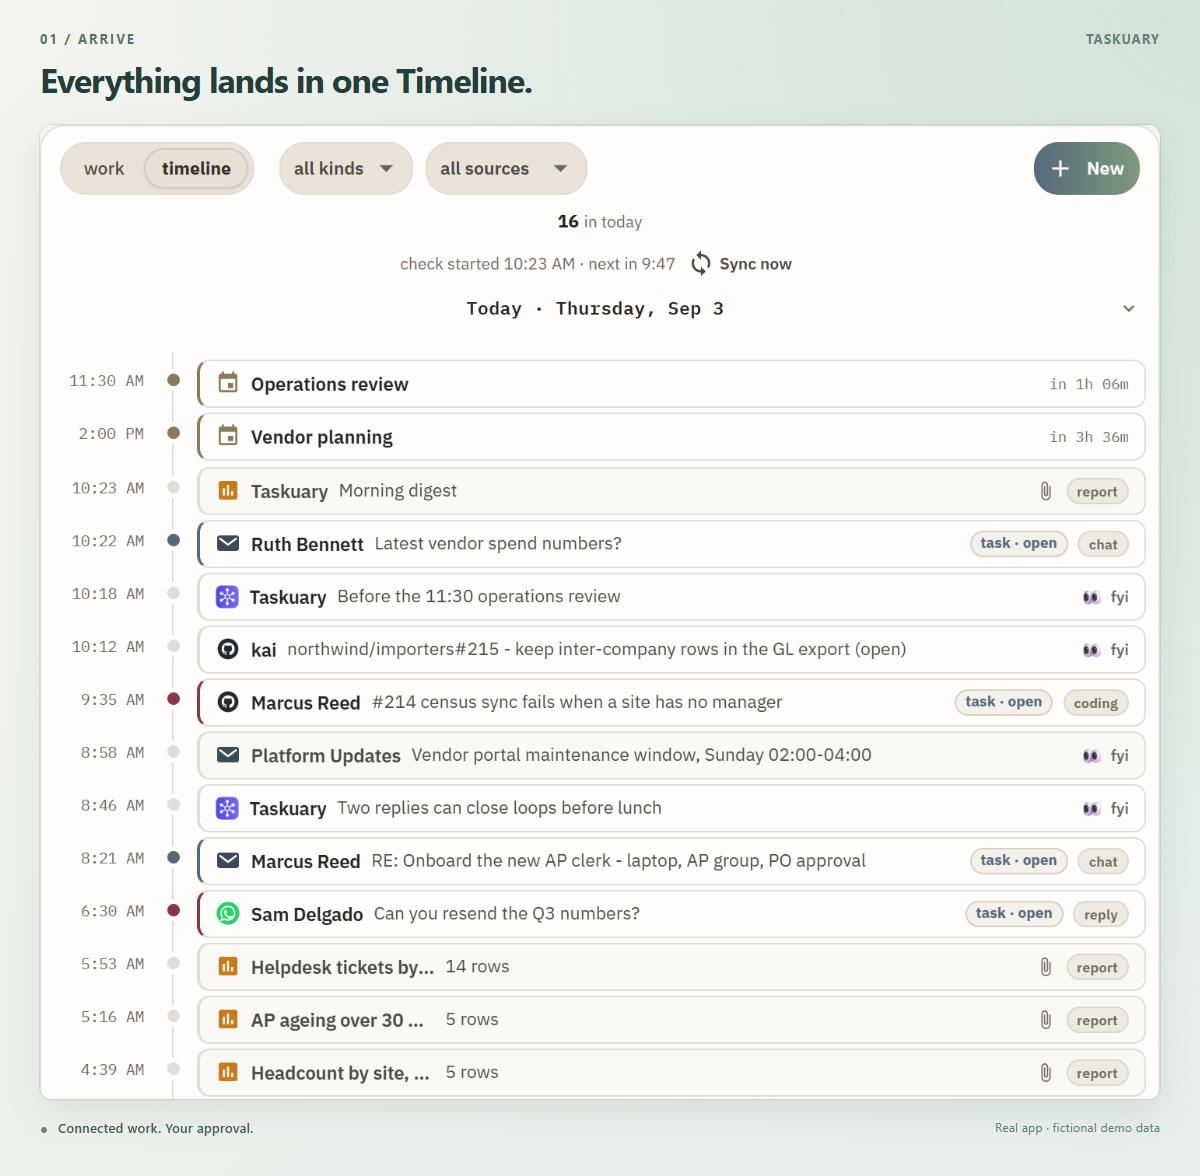
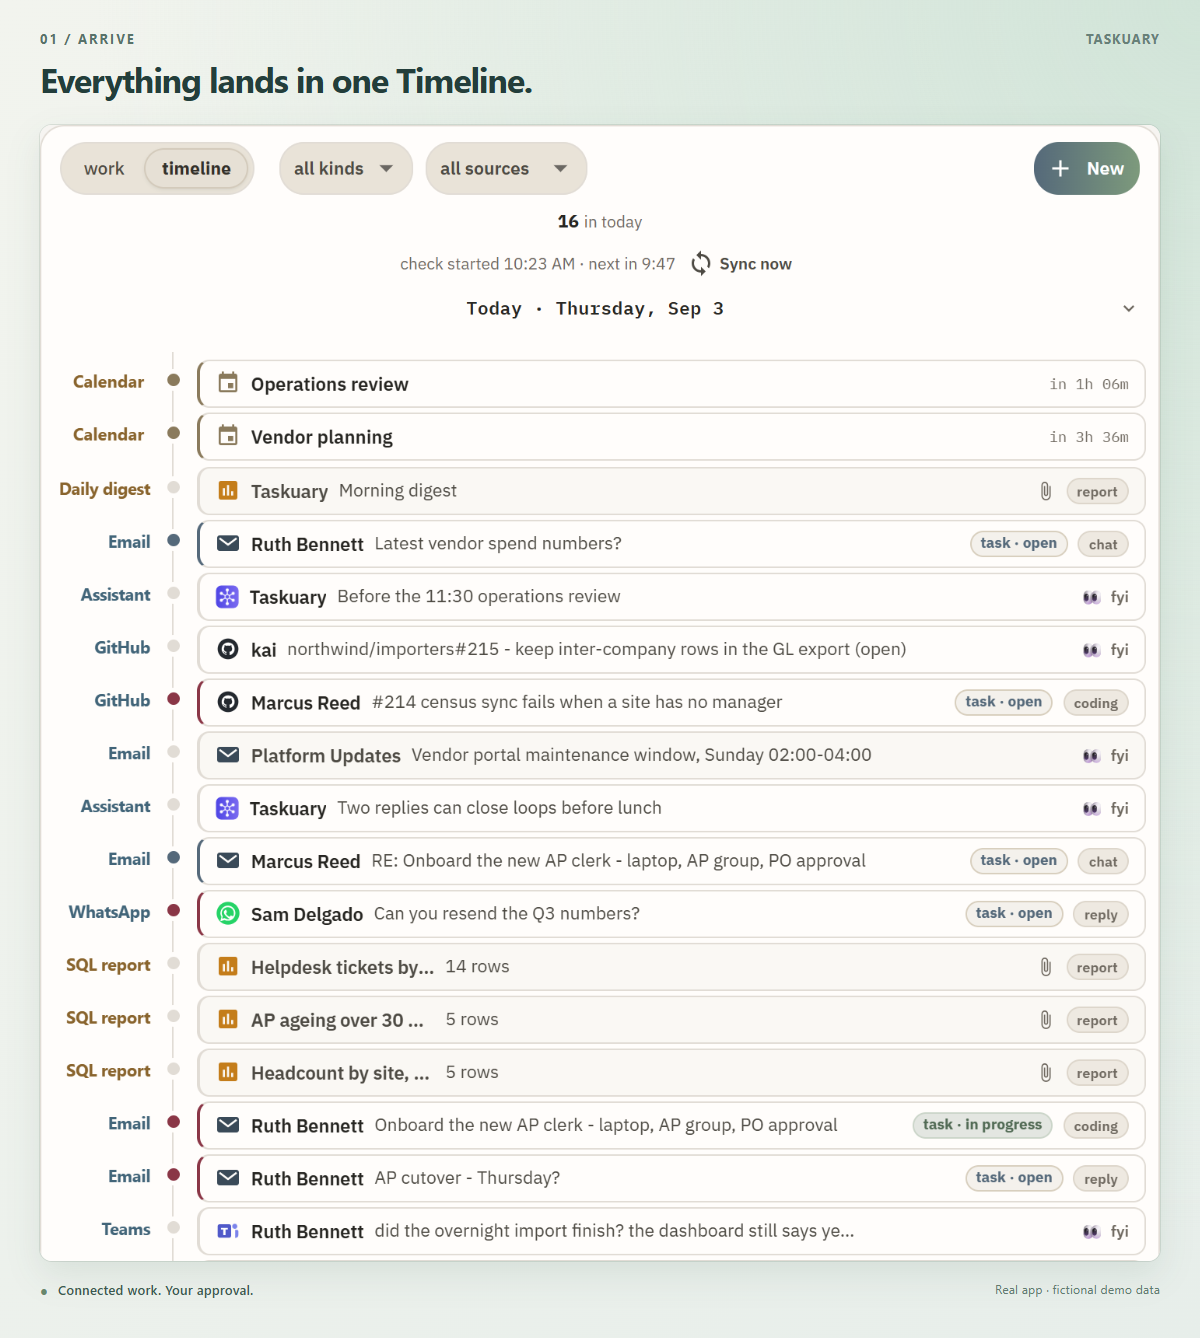
docs: label Timeline sources and explain learned memory

Changed region(s): [[0.0308, 0.2755, 0.9558, 0.9796], [0.0308, 0.0306, 0.9867, 0.2755], [0.925, 0.0306, 0.9558, 0.0612]]

diff --git a/README.md b/README.md
@@ -33,7 +33,7 @@ numbers through the real app, using fictional demo data.
 Mail, chats, issue trackers, alerts, and reports land on one Timeline. See what arrived,
 what became a task, and what needs you without opening every system in turn.
 
-![A close-up of the Timeline, with Ruth's vendor spend request alongside incoming mail, chats, and reports.](https://raw.githubusercontent.com/ldbumble/taskuary/master/docs/readme/01-timeline.png)
+![An annotated Timeline: each item is labelled Email, Teams, WhatsApp, GitHub, SQL report, Assistant, Daily digest, or Calendar.](https://raw.githubusercontent.com/ldbumble/taskuary/master/docs/readme/01-timeline.png?v=source-labels)
 
 ### 2. Turn incoming work into tasks
 
@@ -93,6 +93,39 @@ The Board's **Live handoffs** show what agents are working on, what is blocked, 
 An agent leaves a note; the next one reads it before picking up the work.
 
 ![Live handoff notes on the agent wall, showing progress, shared context, and who has read each note.](https://raw.githubusercontent.com/ldbumble/taskuary/master/docs/readme/09-handoffs.png)
+
+### Memory that learns how you work
+
+Every draft you edit and task you reclassify gives Taskuary evidence about your preferences.
+Repeated patterns become lessons in **LEARNED.md**: how you write, what you own, and what
+deserves a task. For example, repeatedly moving the numbers to the top of a reply can teach
+it to lead with the total next time.
+
+Open **Docs → LEARNED.md** to read, edit, or delete those lessons. Your written instructions
+in `SOUL.md` take precedence.
+
+![LEARNED.md open in the document editor, with evidence-backed preferences, hypotheses still being tested, and proposed rules awaiting the owner.](https://raw.githubusercontent.com/ldbumble/taskuary/master/docs/readme/11-learned-memory.png)
+
+<details>
+<summary>Technical details: how LEARNED.md becomes memory</summary>
+
+- **Learn from a correction.** A model call turns an explicit correction into a hypothesis.
+  Batched reflection compares multiple decisions; untouched approvals contribute here.
+- **Keep the evidence.** Each machine-written lesson carries `s` (strength), `ev` (evidence
+  IDs), and `seen` (last supporting date). A stable `k` identifies it across rewrites.
+- **Promote supported patterns.** A new hypothesis starts at strength 2. Reflection is
+  instructed to promote it at 4 or more, with at least three episodes across two people or
+  threads. Contradictions weaken it; stale hypotheses also decay across reflection cycles.
+- **Use active lessons.** The prompt builder excludes the Hypotheses, Proposed rules, and
+  raw Verdicts sections. Active lessons inform triage, drafts, and agent context.
+- **Keep the owner in charge.** Inferred rules that hide or file work wait in Proposed
+  rules. Two matching explicit owner verdicts can already supply that authorization.
+  Untagged lines you write are preserved, and learning can be disabled in Settings.
+
+See [Learning from your decisions](docs/product-guide.md#learning-from-your-decisions),
+or the implementation in [learn.py](taskuary/learn.py) and [learnedgraph.py](taskuary/learnedgraph.py).
+
+</details>
 
 ### What leaves your machine
 

diff --git a/docs/readme/README.md b/docs/readme/README.md
@@ -26,5 +26,10 @@ double resolution and framed at 1200 pixels wide. The capture widens the Timelin
 rail, narrows the Review column, and expands its reply editor for readability.
 Product source files and the deployed demo are unchanged.
 
+The first image replaces timestamps with readable source labels for this image only;
+SQL report labels reflect the sample reports' SQL Server source configurations.
+The LEARNED.md image uses authored example lessons in the real document editor.
+To recapture and frame just those two images, add `--memory-update` to both commands.
+
 Review every final image at README width after regenerating: titles, amounts,
 source context, action buttons, and the ends of cards must remain visible.
